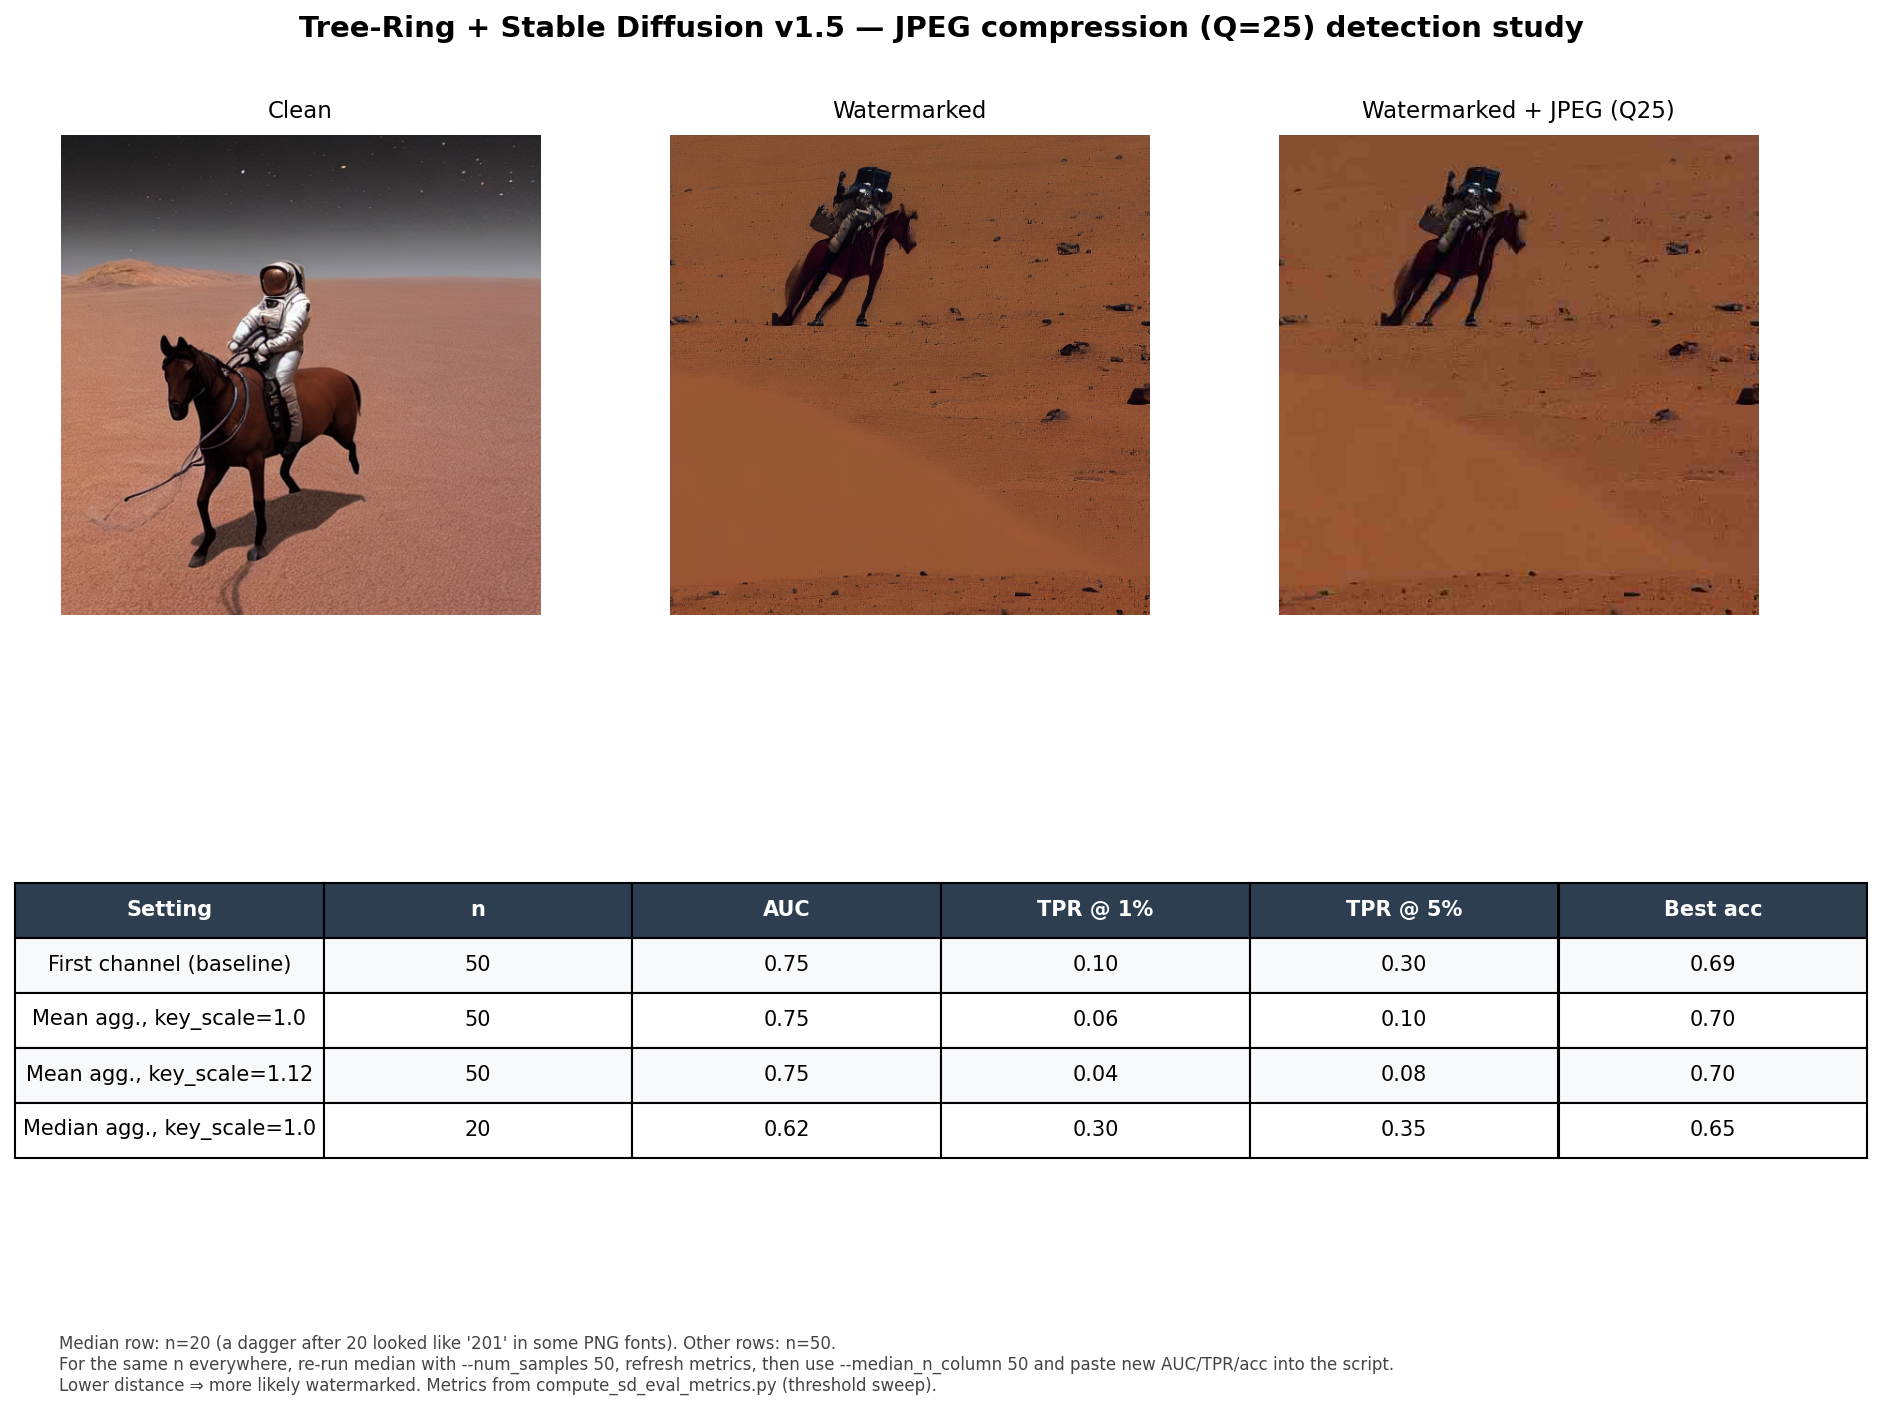
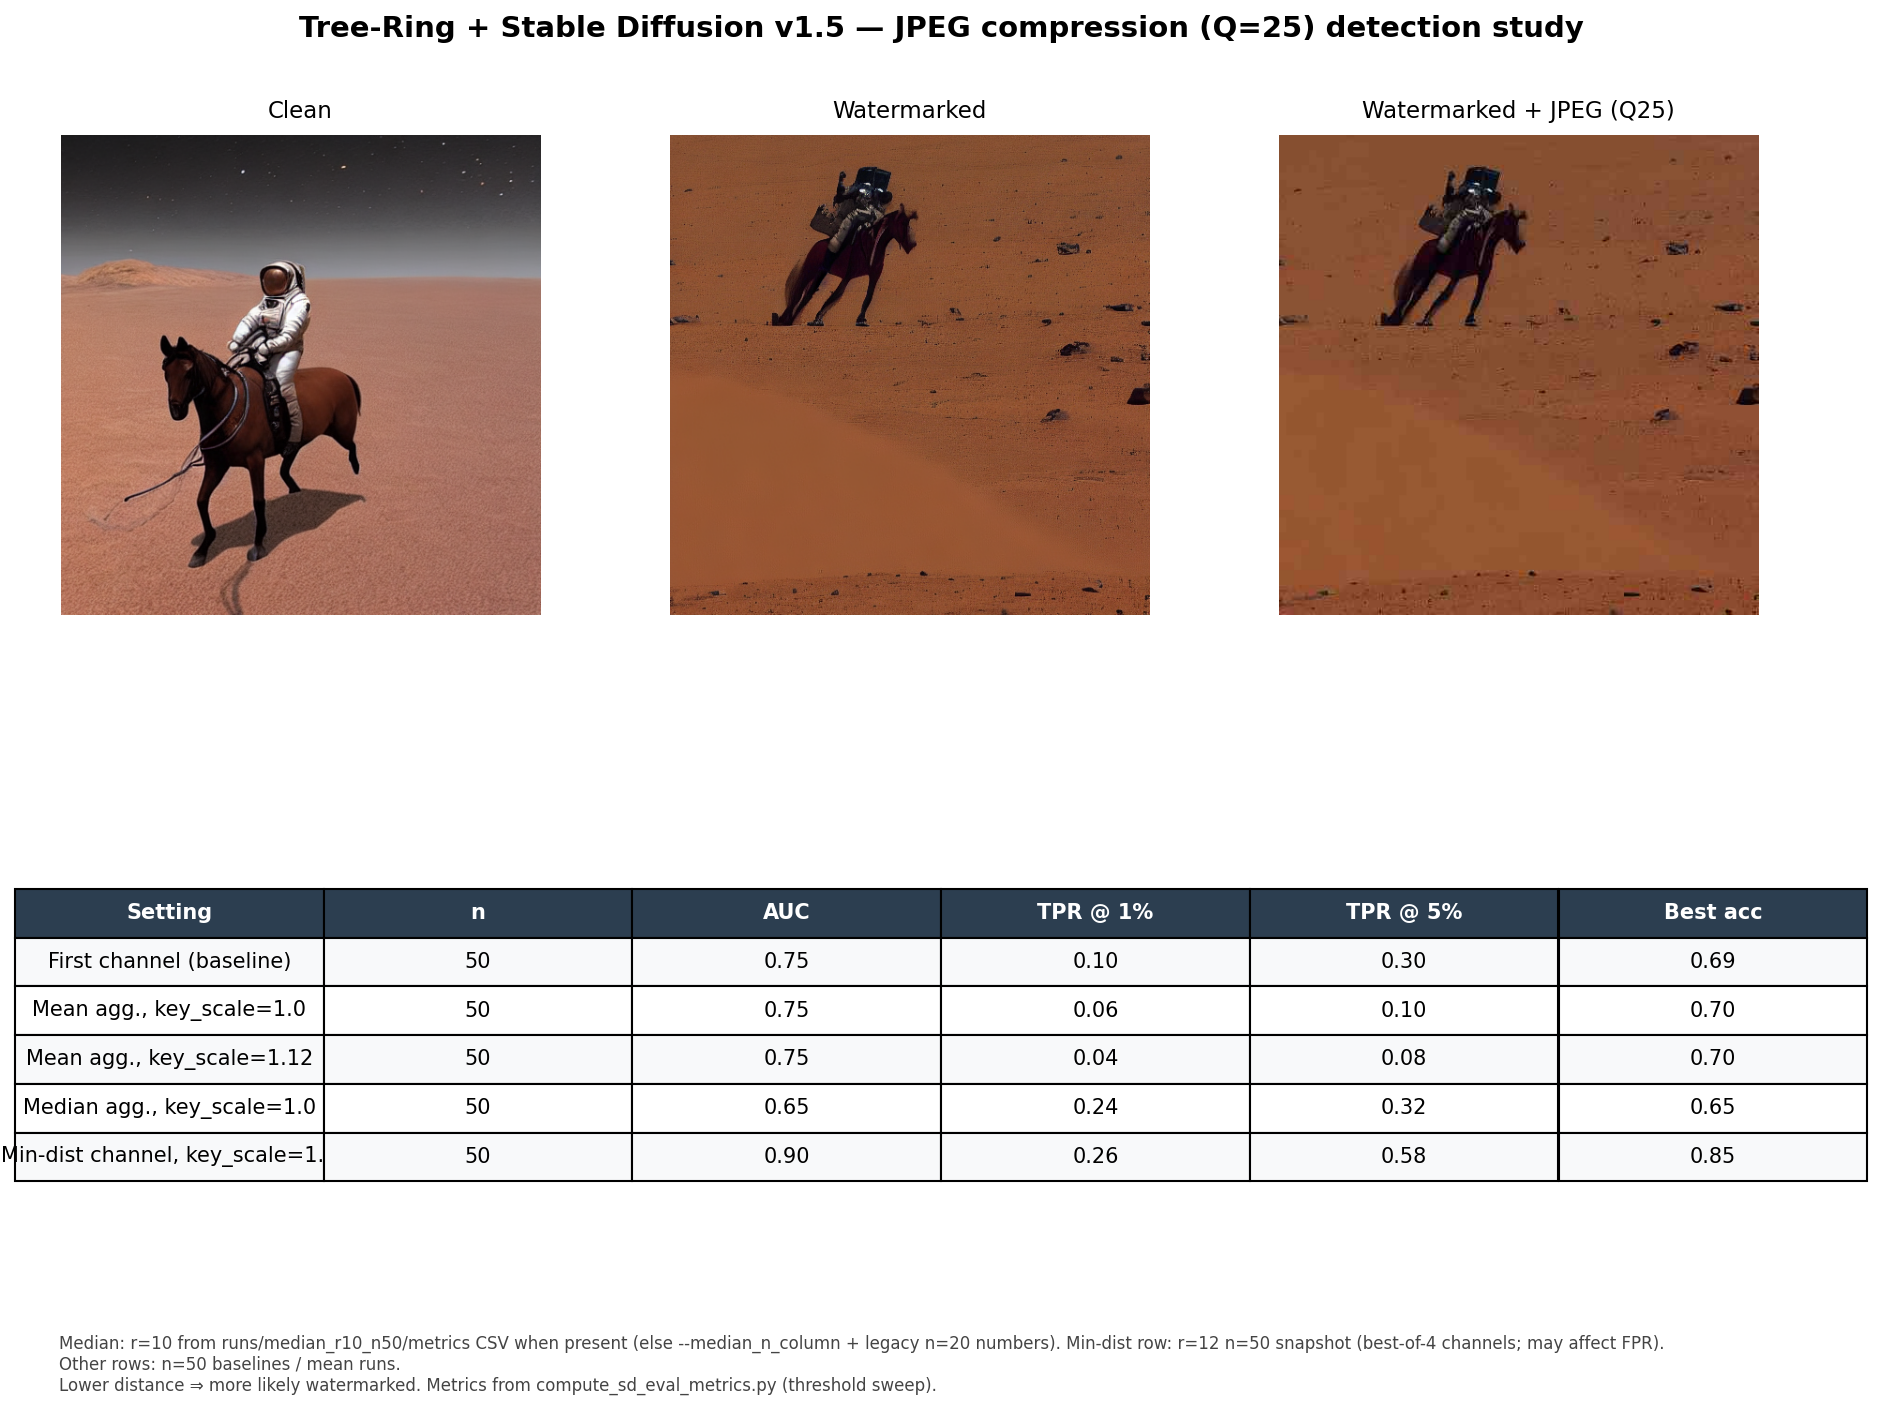
Median r=10 n=50 JPEG metrics; commit min-dist r8/r10 n50 CSVs; sync tables and figures
Made-with: Cursor

Changed region(s): [[0.0, 0.6241, 0.9862, 0.8426], [0.0616, 0.9362, 0.8013, 0.9674], [0.8321, 0.9362, 0.8629, 0.9674]]

diff --git a/make_jpeg_approaches_table.py b/make_jpeg_approaches_table.py
@@ -21,13 +21,13 @@ import matplotlib.pyplot as plt  # noqa: E402
 
 # Fallback when runs/min_dist_radius_n50/*.csv are missing (mixed n=20 / n=50).
 MIN_DIST_RADIUS_ROWS: dict[int, tuple[str, str, str, str, str]] = {
-    8: ("20", "0.86", "0.20", "0.60", "0.80"),
-    10: ("20", "0.83", "0.30", "0.30", "0.82"),
+    8: ("50", "0.89", "0.26", "0.62", "0.83"),
+    10: ("50", "0.90", "0.30", "0.58", "0.83"),
     12: ("50", "0.90", "0.26", "0.58", "0.85"),
 }
 
 
-def _parse_min_dist_metrics_csv(path: Path) -> tuple[str, str, str, str, str] | None:
+def _parse_jpeg_metrics_csv(path: Path) -> tuple[str, str, str, str, str] | None:
     """Return (n_wm, auc, tpr1, tpr5, best_acc) from the jpeg row, or None."""
     with open(path, newline="") as f:
         reader = csv.DictReader(f)
@@ -54,16 +54,30 @@ def _merge_min_dist_rows(root: Path) -> tuple[dict[int, tuple[str, str, str, str
         p = d / f"metrics_jpeg_min_dist_r{r}_n50.csv"
         if not p.is_file():
             continue
-        parsed = _parse_min_dist_metrics_csv(p)
+        parsed = _parse_jpeg_metrics_csv(p)
         if parsed is None:
             continue
         rows[r] = parsed
         loaded.append(f"r{r}=file")
     if not loaded:
         note = "fallback MIN_DIST_RADIUS_ROWS (scp metrics CSVs → runs/min_dist_radius_n50/; do not quote {8,10,12})"
+    elif len(loaded) == 3:
+        note = "min-dist: all r∈{8,10,12} from runs/min_dist_radius_n50/*.csv"
     else:
-        note = "min-dist: " + ", ".join(loaded) + "; other radii fallback"
+        note = "min-dist: " + ", ".join(loaded) + "; missing radii use script fallback"
     return rows, note
+
+
+def _load_median_r10_n50_row(root: Path) -> tuple[tuple[str, str, str, str, str], str]:
+    """Median, r=10, k=1.0 from runs/median_r10_n50/metrics_jpeg_median_r10_n50.csv if present."""
+    p = root / "experiments/jpeg_defense/runs/median_r10_n50/metrics_jpeg_median_r10_n50.csv"
+    fallback = ("20", "0.62", "0.30", "0.35", "0.65")
+    if not p.is_file():
+        return fallback, "median r=10: fallback n=20 slice"
+    parsed = _parse_jpeg_metrics_csv(p)
+    if parsed is None:
+        return fallback, "median r=10: parse failed, fallback n=20"
+    return parsed, "median r=10: from runs/median_r10_n50/*.csv (AUC raw 0.653)"
 
 
 def main() -> None:
@@ -82,6 +96,7 @@ def main() -> None:
     out_path.parent.mkdir(parents=True, exist_ok=True)
 
     min_dist_rows, min_dist_source = _merge_min_dist_rows(root)
+    median_row_vals, median_source = _load_median_r10_n50_row(root)
 
     hdr = ["Setting", "n", "AUC", "TPR @ 1%", "TPR @ 5%", "Best acc"]
     rows: list[list[str]] = [
@@ -89,7 +104,7 @@ def main() -> None:
         ["First channel (baseline), r=10, k=1.0", "50", "0.75", "0.10", "0.30", "0.69"],
         ["Mean latent ch., r=10, k=1.0", "50", "0.75", "0.06", "0.10", "0.70"],
         ["Mean latent ch., r=10, k=1.12", "50", "0.75", "0.04", "0.08", "0.70"],
-        ["Median latent ch., r=10, k=1.0", "20", "0.62", "0.30", "0.35", "0.65"],
+        ["Median latent ch., r=10, k=1.0", *median_row_vals],
         # Mean + radius (JPEG only, n=20)
         ["Mean, r=8, k=1.0", "20", "0.79", "0.10", "0.40", "0.78"],
         ["Mean, r=10, k=1.0", "20", "0.73", "0.00", "0.30", "0.72"],
@@ -145,7 +160,7 @@ def main() -> None:
         "Metrics: compute_sd_eval_metrics.py (distance threshold sweep). "
         "n=50 where noted; else n=20 (preliminary). "
         "Mean r=10 row (n=20) is the radius ablation slice — not the same run as Mean r=10 (n=50). "
-        f"Min-dist × radius: {min_dist_source}.",
+        f"{median_source}. Min-dist × radius: {min_dist_source}.",
         fontsize=8.5,
         color="#333",
         verticalalignment="bottom",
@@ -154,6 +169,7 @@ def main() -> None:
     plt.savefig(out_path, bbox_inches="tight", facecolor="white")
     plt.close()
     print(f"Wrote {out_path}")
+    print(median_source)
     print(min_dist_source)
 
 

diff --git a/make_jpeg_report_figure.py b/make_jpeg_report_figure.py
@@ -7,6 +7,7 @@ Run from repo root: python make_jpeg_report_figure.py
 from __future__ import annotations
 
 import argparse
+import csv
 from pathlib import Path
 
 import matplotlib
@@ -34,13 +35,28 @@ def main() -> None:
     parser.add_argument(
         "--median_n_column",
         type=str,
-        default="20",
+        default="50",
         choices=("20", "50"),
-        help="Sample count shown for median row. Use 20 (actual run). Use 50 only after re-running median with --num_samples 50.",
+        help="Sample count for median row if CSV missing (default 50 after WatGPU n=50 run).",
     )
     args = parser.parse_args()
 
     root = Path(__file__).resolve().parent
+    median_csv = root / "experiments/jpeg_defense/runs/median_r10_n50/metrics_jpeg_median_r10_n50.csv"
+    median_n = args.median_n_column
+    median_cells = ["0.62", "0.30", "0.35", "0.65"]
+    if median_csv.is_file():
+        with open(median_csv, newline="") as f:
+            for row in csv.DictReader(f):
+                if (row.get("attack") or "").strip() == "jpeg":
+                    median_n = str(int(float(row["n_wm"])))
+                    median_cells = [
+                        f"{float(row['auc']):.2f}",
+                        f"{float(row['tpr_at_1pct_fpr']):.2f}",
+                        f"{float(row['tpr_at_5pct_fpr']):.2f}",
+                        f"{float(row['best_accuracy']):.2f}",
+                    ]
+                    break
     res = root / args.results_dir
     out_path = root / args.out
     out_path.parent.mkdir(parents=True, exist_ok=True)
@@ -71,15 +87,15 @@ def main() -> None:
 
     # --- Metrics table (numbers from your WatGPU / snapshot runs) ---
     col_labels = ["Setting", "n", "AUC", "TPR @ 1%", "TPR @ 5%", "Best acc"]
-    median_n = args.median_n_column
     cell_text = [
         ["First channel (baseline)", "50", "0.75", "0.10", "0.30", "0.69"],
         ["Mean agg., key_scale=1.0", "50", "0.75", "0.06", "0.10", "0.70"],
         ["Mean agg., key_scale=1.12", "50", "0.75", "0.04", "0.08", "0.70"],
-        ["Median agg., key_scale=1.0", median_n, "0.62", "0.30", "0.35", "0.65"],
+        ["Median agg., key_scale=1.0", median_n, *median_cells],
+        ["Min-dist channel, key_scale=1.0", "50", "0.90", "0.26", "0.58", "0.85"],
     ]
 
-    ax_tbl = fig.add_axes([0.08, 0.12, 0.84, 0.38])
+    ax_tbl = fig.add_axes([0.08, 0.10, 0.84, 0.40])
     ax_tbl.set_axis_off()
     table: Table = ax_tbl.table(
         cellText=cell_text,
@@ -89,7 +105,7 @@ def main() -> None:
     )
     table.auto_set_font_size(False)
     table.set_fontsize(10)
-    table.scale(1.05, 2.2)
+    table.scale(1.05, 1.95)
     for (row, col), cell in table.get_celld().items():
         if row == 0:
             cell.set_facecolor("#2c3e50")
@@ -98,14 +114,10 @@ def main() -> None:
             cell.set_facecolor("#f8f9fa" if row % 2 else "white")
 
     median_note = (
-        "Median row: n=20 (a dagger after 20 looked like '201' in some PNG fonts). Other rows: n=50.\n"
-        "For the same n everywhere, re-run median with --num_samples 50, refresh metrics, then use --median_n_column 50 and paste new AUC/TPR/acc into the script."
+        "Median: r=10 from runs/median_r10_n50/metrics CSV when present (else --median_n_column + legacy n=20 numbers). "
+        "Min-dist row: r=12 n=50 snapshot (best-of-4 channels; may affect FPR).\n"
+        "Other rows: n=50 baselines / mean runs."
     )
-    if median_n == "50":
-        median_note = (
-            "WARNING: n column shows 50 for median, but AUC/TPR/acc above are still from the n=20 median run — replace after you re-run at n=50.\n"
-            + median_note
-        )
     fig.text(
         0.08,
         0.06,

diff --git a/experiments/jpeg_defense/WHAT_I_TRIED.md b/experiments/jpeg_defense/WHAT_I_TRIED.md
@@ -54,7 +54,9 @@ This document explains **in detail** every defense-oriented change we explored: 
 
 **JPEG numbers (n=20):** AUC **~0.62**, best acc **0.65**, TPR@1% **0.30**, TPR@5% **0.35** on that small run. **AUC and best acc** were **worse** than n=50 baselines; **low-FPR TPR** looks higher but **n=20** makes ROC operating points **very noisy**—not comparable to n=50 without a full rerun.
 
-**Median × mask radius (n=50):** To match the **mean** and **min-dist** radius studies, run **`NUM_SAMPLES=50 bash scripts/run_jpeg_median_radius_ablation.sh`** on WatGPU — **r ∈ {8, 10, 12}**, JPEG Q25, outputs under `outputs_tree_ring_sd_eval_jpeg_median_radius/`. Fill §D in [`ATTEMPTS.md`](ATTEMPTS.md) after metrics land.
+**JPEG numbers (n=50, r=10):** AUC **~0.65** (0.653 raw), TPR@1% **0.24**, TPR@5% **0.32**, best acc **0.65** — [`runs/median_r10_n50/`](runs/median_r10_n50/). Still **below** first-channel baseline (~0.75 AUC) on JPEG Q25.
+
+**Median × mask radius (n=50):** Full sweep: **`NUM_SAMPLES=50 bash scripts/run_jpeg_median_radius_ablation.sh`** — **r ∈ {8, 10, 12}**, outputs under `outputs_tree_ring_sd_eval_jpeg_median_radius/`. Update §D in [`ATTEMPTS.md`](ATTEMPTS.md) when r=8 / r=12 metrics arrive.
 
 ---
 
@@ -103,11 +105,12 @@ On this **preliminary** slice, **r = 8** and **r = 12** look **better** than **r
 | Mean vs. first channel | Tiny **best-acc** gain; **worse TPR @ low FPR** |
 | key_scale 1.12 + mean | **No** improvement on strict metrics |
 | Median (n=20) | **Worse AUC** vs. n=50 settings; noisy |
+| Median (n=50, r=10) | AUC **~0.65** — still **below** baseline **~0.75**; not a JPEG win |
 | Radius 8 vs 10 vs 12 (n=20) | **Promising**; needs **n=50** confirmation |
 | Min-dist + r=12 (n=50) | **Strong** AUC **~0.90** vs. baseline **~0.75**; still check **FPR** (best-of-4) |
 
-**Honest story for a report:** We systematically tried **detector pooling** (first / mean / median / **min-dist**), **key strength**, and **mask radius** under **JPEG Q25**. **Mean/median + key scaling** did not clearly improve **JPEG defense** under **strict FPR** at n=50. **Min-dist** with **r=12** at **n=50** is the clearest win so far on **AUC**; **mean × radius** and **min-dist × radius** at n=20 suggested **r** matters — confirm **min-dist r=8/10 at n=50** if you need a full radius sweep at fixed n.
+**Honest story for a report:** We systematically tried **detector pooling** (first / mean / median / **min-dist**), **key strength**, and **mask radius** under **JPEG Q25**. **Mean** and **median** (including **median n=50, r=10**) did not beat the **first-channel baseline** on **AUC** for JPEG. **Min-dist** with **r=12** at **n=50** is the clearest win so far on **AUC**; **mean × radius** and **min-dist × radius** at n=20 suggested **r** matters — finish **median × r** at n=50 for r=8/12 if you want symmetry with mean/min-dist sweeps.
 
 ---
 
-See also: [`SLIDES.md`](SLIDES.md) (compact tables), [`ATTEMPTS.md`](ATTEMPTS.md) (raw numbers).
+See also: [`ATTEMPTS.md`](ATTEMPTS.md) (raw numbers).

diff --git a/experiments/jpeg_defense/ATTEMPTS.md b/experiments/jpeg_defense/ATTEMPTS.md
@@ -10,7 +10,8 @@
 | Mean | 50 | `mean`, k=1.0 | 0.749 | 0.06 | 0.10 | 0.70 | JPEG-only CSV |
 | Mean | 50 | `mean`, k=1.12 | 0.747 | 0.04 | 0.08 | 0.70 | JPEG-only CSV |
 | Median, r=10 | 20 | `median`, k=1.0 | 0.62 | 0.30 | 0.35 | 0.65 | [`runs/median_n20/`](runs/median_n20/) |
-| Median × r | 50 | `median`, k=1.0, r∈{8,10,12} | — | — | — | — | Run `scripts/run_jpeg_median_radius_ablation.sh`; see §D |
+| Median, r=10 | 50 | `median`, k=1.0 | 0.65 | 0.24 | 0.32 | 0.65 | AUC 0.653 raw — [`runs/median_r10_n50/`](runs/median_r10_n50/) |
+| Median × r (full sweep) | 50 | `median`, k=1.0, r∈{8,10,12} | — | — | — | — | `run_jpeg_median_radius_ablation.sh`; see §D |
 | Min-dist, r=10 | 20 | `min_dist`, k=1.0 | 0.83 | 0.30 | 0.30 | 0.82 | [`runs/min_dist_n20/`](runs/min_dist_n20/) |
 
 ## B. Fourier mask radius (JPEG only, mean, k=1.0)
@@ -28,7 +29,7 @@
 
 WatGPU files: `metrics_jpeg_min_dist_r8_n50.csv`, `metrics_jpeg_min_dist_r10_n50.csv`, `metrics_jpeg_min_dist_r12_n50.csv` (same folder). **All three radii** are produced by `scripts/run_jpeg_min_dist_radius_ablation.sh`.
 
-**In-repo:** [`runs/min_dist_radius_n50/metrics_jpeg_min_dist_r12_n50.csv`](runs/min_dist_radius_n50/metrics_jpeg_min_dist_r12_n50.csv) (jpeg row: AUC **0.90**, TPR@1% **0.26**, TPR@5% **0.58**, best acc **0.85**). **r=8 / r=10:** `scp` those metrics CSVs into the same folder (**unquoted** `r{8,10,12}` on zsh — see README there), then `make_jpeg_approaches_table.py` merges each radius independently.
+**In-repo:** [`runs/min_dist_radius_n50/`](runs/min_dist_radius_n50/) — `metrics_jpeg_min_dist_r{8,10,12}_n50.csv`. **r=8:** AUC **0.89** (0.8928 raw), TPR@1% **0.26**, TPR@5% **0.62**, best acc **0.83**. **r=10:** AUC **0.90** (0.8966 raw), TPR@1% **0.30**, TPR@5% **0.58**, best acc **0.83**. **r=12:** AUC **0.90** (0.9026 raw), TPR@1% **0.26**, TPR@5% **0.58**, best acc **0.85**.
 
 **WatGPU folder:** `outputs_tree_ring_sd_eval_jpeg_min_dist_radius/` (gitignored).
 
@@ -36,9 +37,9 @@ WatGPU files: `metrics_jpeg_min_dist_r8_n50.csv`, `metrics_jpeg_min_dist_r10_n50
 
 | radius | n | AUC | TPR @ 1% | TPR @ 5% | Best acc | Notes |
 |--------|---|-----|----------|----------|----------|--------|
-| 8 | 50 | — | — | — | — | After WatGPU: `metrics_jpeg_median_r8_n50.csv` |
-| 10 | 50 | — | — | — | — | Same folder |
-| 12 | 50 | — | — | — | — | Same folder |
+| 8 | 50 | — | — | — | — | `metrics_jpeg_median_r8_n50.csv` |
+| 10 | 50 | 0.65 | 0.24 | 0.32 | 0.65 | Matches [`runs/median_r10_n50/metrics_jpeg_median_r10_n50.csv`](runs/median_r10_n50/metrics_jpeg_median_r10_n50.csv) (AUC 0.653 raw) |
+| 12 | 50 | — | — | — | — | `metrics_jpeg_median_r12_n50.csv` |
 
 **WatGPU folder:** `outputs_tree_ring_sd_eval_jpeg_median_radius/` (gitignored).  
 **Script:** `NUM_SAMPLES=50 bash scripts/run_jpeg_median_radius_ablation.sh`

diff --git a/results/jpeg_q25_detector_comparison.md b/results/jpeg_q25_detector_comparison.md
@@ -25,7 +25,7 @@ So the update is **not** a uniform win on JPEG for every metric: channel averagi
 | Baseline | `detect_channel_agg=first`, `key_scale=1.0` | Snapshot table (AUC ~0.75, TPR@1% 0.10) |
 | Mean over channels | `mean`, `key_scale=1.0` | AUC ~flat; best acc +0.01; **TPR@low FPR worse** |
 | Mean + stronger key | `mean`, `key_scale=1.12` | Similar; **TPR@low FPR worse** again |
-| **Median** over channels | `median`, `key_scale=1.0` | n=20: AUC ~0.62 — see [`runs/median_n20/`](../experiments/jpeg_defense/runs/median_n20/) |
+| **Median** over channels | `median`, `key_scale=1.0` | n=20: AUC ~0.62 — [`runs/median_n20/`](../experiments/jpeg_defense/runs/median_n20/). **n=50, r=10:** AUC **~0.65**, TPR@1% **0.24** — [`runs/median_r10_n50/`](../experiments/jpeg_defense/runs/median_r10_n50/) |
 | **Min distance** channel | `min_dist`, `key_scale=1.0` | **n=20:** r=10 AUC **0.83** — [`runs/min_dist_n20/`](../experiments/jpeg_defense/runs/min_dist_n20/). **r=8:** AUC **~0.86** (n=20). **r=12 n=50:** AUC **~0.90**, TPR@1% **0.26**, TPR@5% **0.58** — see [`ATTEMPTS.md`](../experiments/jpeg_defense/ATTEMPTS.md) §C; verify paste matches `metrics_jpeg_min_dist_r12_n50`; best-of-4 may affect FPR |
 
 ### Reproduce

diff --git a/experiments/jpeg_defense/runs/README.md b/experiments/jpeg_defense/runs/README.md
@@ -5,6 +5,7 @@
 | **`median_n20/`** | Median-channel ablation at n=20 (CSV + metrics table). |
 | **`min_dist_n20/`** | Min-dist channel detector, JPEG Q25, n=20 (CSV + metrics). |
 | **`min_dist_radius_n50/`** | Drop `metrics_jpeg_min_dist_r{8,10,12}_n50.csv` here → auto-fill [`make_jpeg_approaches_table.py`](../../make_jpeg_approaches_table.py). |
+| **`median_r10_n50/`** | Median channel, r=10, JPEG n=50 metrics CSV → approaches table + report figure. |
 | **`k112_smoke/`** | Leftover smoke-test folder (can delete if empty). |
 
 **Full radius ablation + mean/k112 CSVs** (large) stay on WatGPU / gitignored dirs:

diff --git a/experiments/jpeg_defense/runs/median_r10_n50/README.md b/experiments/jpeg_defense/runs/median_r10_n50/README.md
@@ -1,0 +1,4 @@
+# Median channel, r=10, JPEG Q25, n=50
+
+Metrics from WatGPU (`outputs_tree_ring_sd_eval_jpeg_median_radius/` or a one-off eval).  
+`make_jpeg_approaches_table.py` reads [`metrics_jpeg_median_r10_n50.csv`](metrics_jpeg_median_r10_n50.csv) when present.
